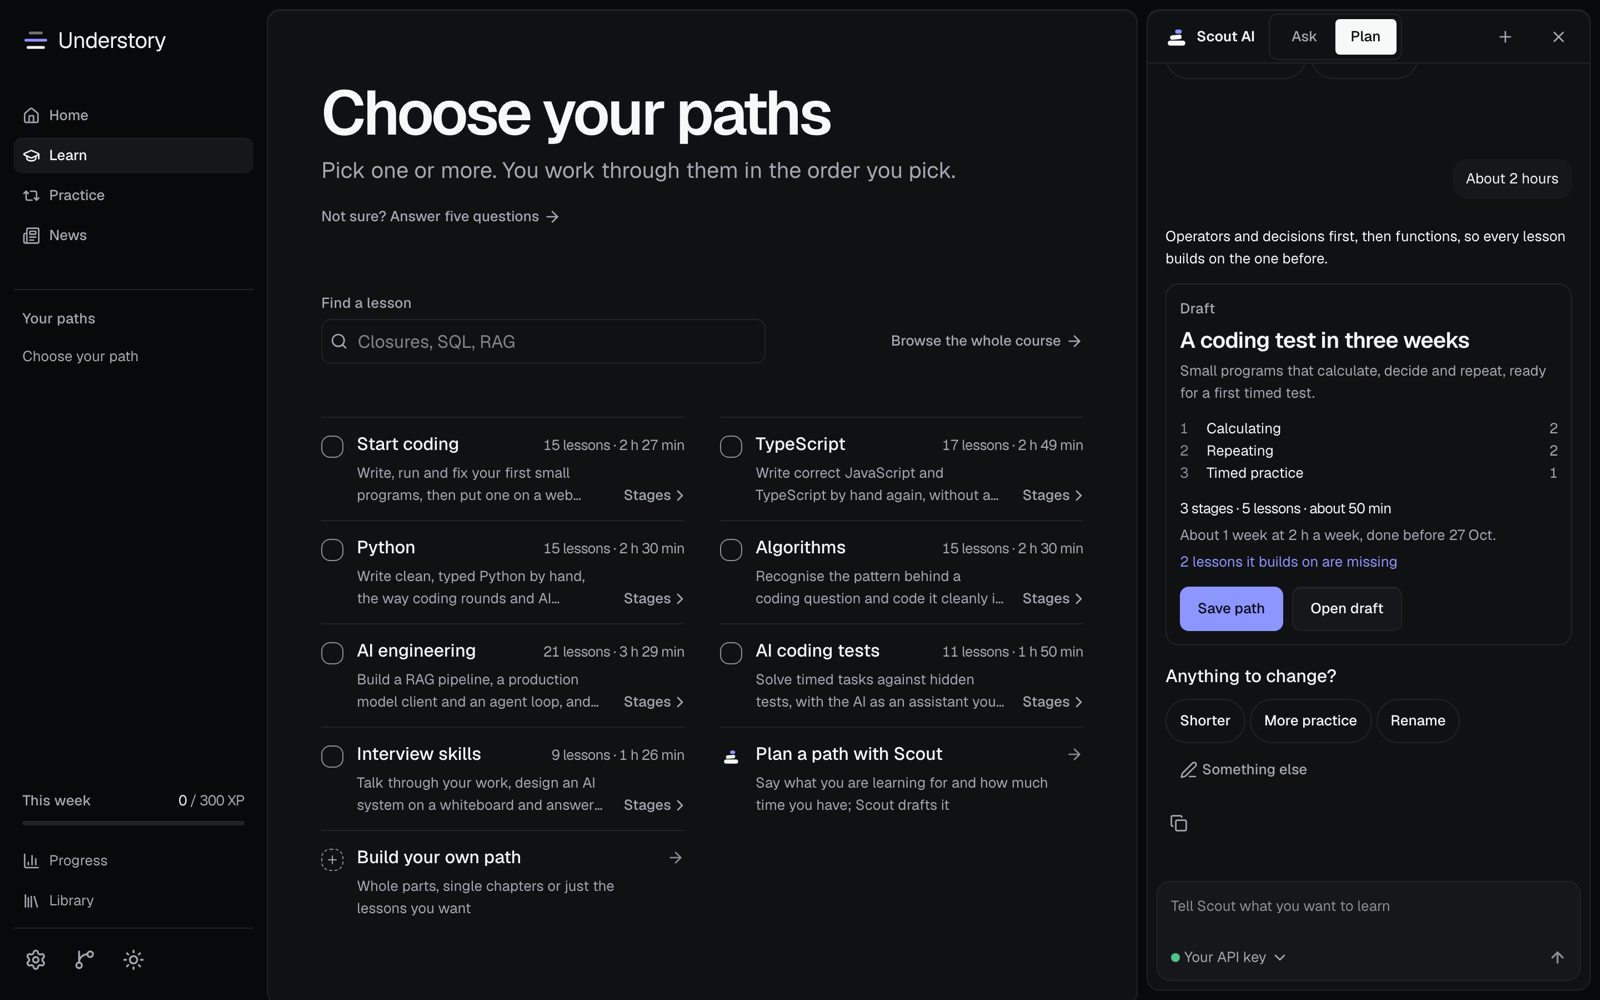
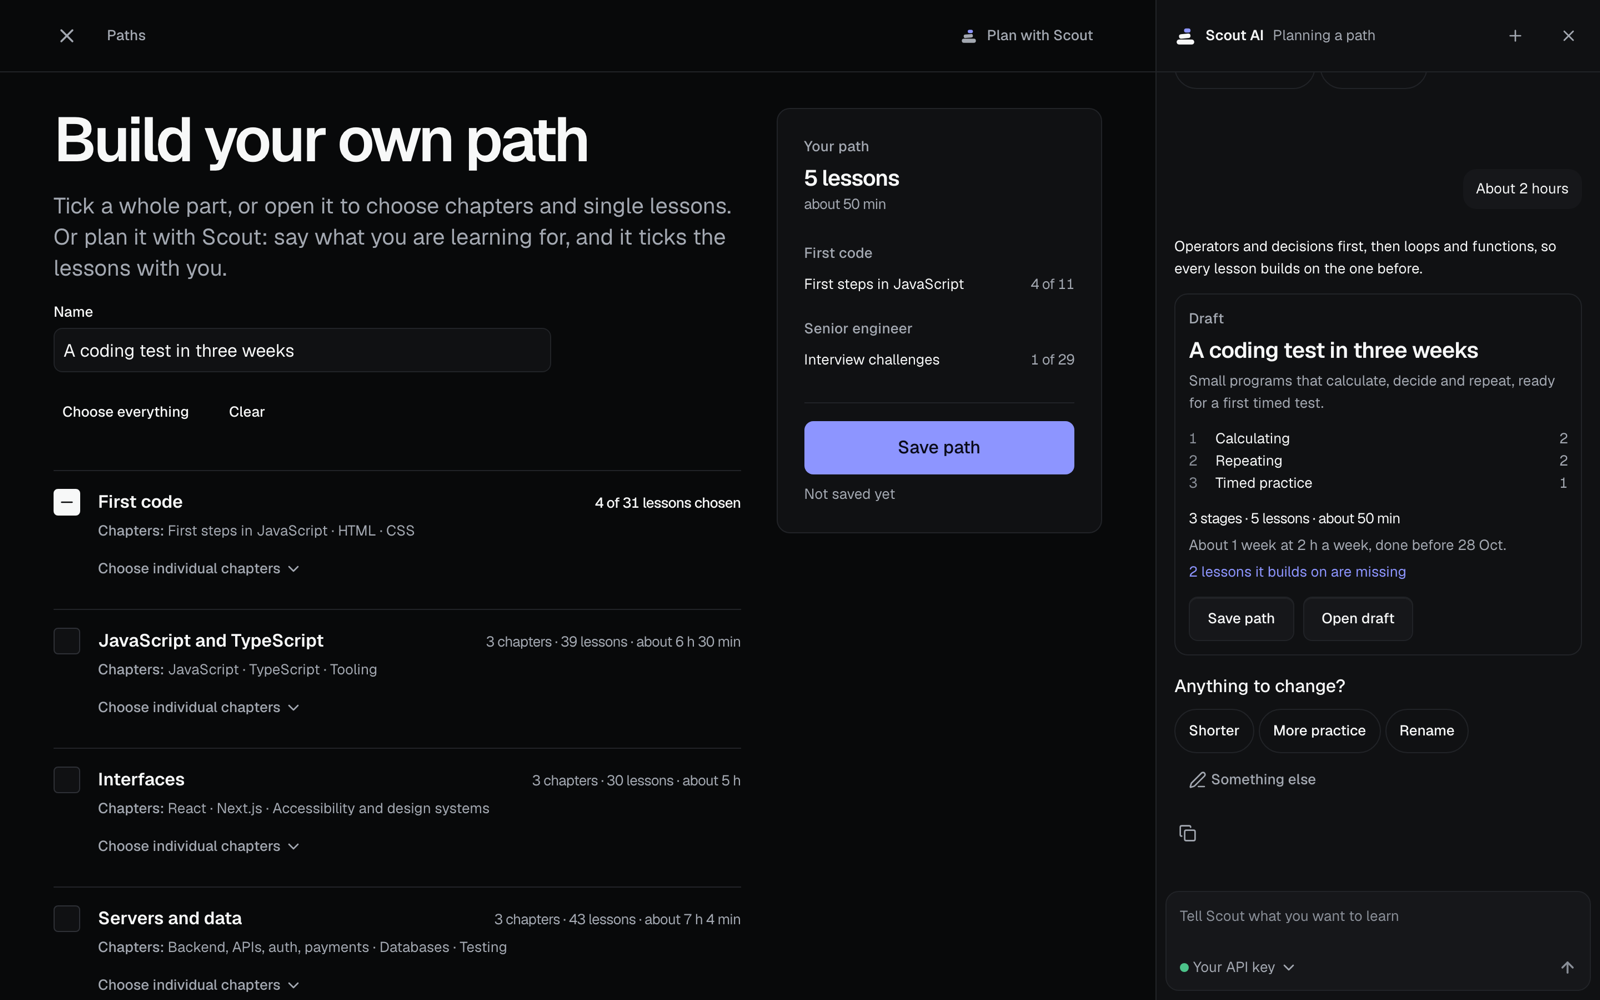
Document planning with Scout in the builder, its offer elsewhere, and full-screen Scout on phones

diff --git a/README.md b/README.md
@@ -108,14 +108,17 @@ which measure what you know without help.
 Away from a lesson it is a guide. It knows every page in the app and where you are on your
 paths, so you can ask where to start, what to practise or where yesterday's news went, and
 it answers with a link that takes you there. On a wide screen it docks beside the page
-instead of covering it, so the lesson and the answer stay side by side; on a phone it opens
-as a sheet. In the coding simulator the same assistant plays the one employers switch on,
+instead of covering it, so the lesson and the answer stay side by side; on a phone it fills
+the screen, so typing and scrolling stay in Scout and the page behind holds still. Ask it what
+to learn or which path to take, and it offers to plan one with you: a button takes you to the
+planner. In the coding simulator the same assistant plays the one employers switch on,
 and every prompt goes into your report.
 
 ### Plan a path with Scout
 
-Not sure which path fits, or none fits quite? Switch Scout to **Plan** (or choose "Plan a
-path with Scout" on Learn) and talk it through. Scout starts with what brings you here,
+Not sure which path fits, or none fits quite? Build your own, by hand or with Scout: in the
+builder ("Build your own path" on Learn), press **Plan with Scout** and talk it through, with
+Scout beside the builder. Scout starts with what brings you here,
 whatever it is: interviews coming up, a new career, your current work, a project of your own,
 school, a coding test, or plain curiosity. Then it asks only what changes the plan: what you
 already know, how much time you have and by when, which kinds of interviews or what you want
@@ -123,15 +126,17 @@ to build. Each question comes with answers to tap, and you can always type your 
 
 <picture>
   <source media="(prefers-color-scheme: dark)" srcset="docs/assets/readme/scout-planner-dark.png">
-  <img alt="Scout in plan mode beside Learn. The learner tapped two reasons and a weekly time, and Scout drafted a named path of two stages, with its size, how many weeks it takes at that pace, a missing lesson it builds on marked in the accent, and Save path." src="docs/assets/readme/scout-planner-light.png" width="100%">
+  <img alt="Scout planning a path beside the builder. The learner tapped two reasons and a weekly time, and Scout drafted a named path of two stages, with its size, how many weeks it takes at that pace, a missing lesson it builds on marked in the accent, and Save path." src="docs/assets/readme/scout-planner-light.png" width="100%">
 </picture>
 
 After a few questions Scout drafts the path: whole chapters where a chapter fits, single
 lessons where only part of one does, in stages with a reason each, sized to your weeks, and
 with a name of its own and two others to pick from. Open the draft to rename it, take out a
-lesson or a stage, or add the lessons it builds on that you have not done yet. Ask for
-changes ("shorter", "more practice", "add system design") and Scout redrafts from the version
-you are looking at. Save puts it on Learn as one of your paths, beside any others. Lesson ids,
+lesson or a stage, or add the lessons it builds on that you have not done yet. The builder
+ticks what Scout drafts, and your ticks go back to Scout, so you can switch between ticking by
+hand and asking at any point. Ask for changes ("shorter", "more practice", "add system
+design") and Scout redrafts from the version you are looking at. Save puts it on Learn as one
+of your paths, beside any others. Lesson ids,
 minutes and gaps are checked against the course, never taken from the model on trust.
 
 ### It runs on your own Claude
@@ -311,7 +316,7 @@ Every screen is designed from 390 px up and checked at 390, 768, 1024 and 1440 p
 and dark. Writing code on a phone gets its own editor: a suggestion row above the keyboard,
 snippet gaps you tap to fill, trackpad-style cursor keys and a full-screen mode. See
 [`MOBILE-EDITING.md`](docs/MOBILE-EDITING.md). On a phone the four places sit in a tab bar,
-and Scout opens as a sheet over the lesson.
+and Scout fills the screen over the lesson.
 
 <p align="center">
   <picture>

diff --git a/docs/ROADMAP.md b/docs/ROADMAP.md
@@ -11,7 +11,7 @@ holds state and priorities only, so keep it short and current.
 | Course         | 370 lessons in 30 chapters and seven parts, each part with a checkpoint, a capstone and worked capstone solutions (`content/capstones/`). Every lesson meets `docs/WRITING-GUIDE.md`.                                                                                    |
 | Learning paths | Seven paths in `content/tracks/`, each three or four stages. Each ends in a final exam at `/practise/exam/<path>` and a certificate at `/paths/<path>/certificate`.                                                                                                      |
 | Plans          | `/plan` builds a plan from a goal, weekly time and starting point: phases drawn from the paths, a step for today, an exam per phase. Learners also keep several named own paths, planned with Scout or built by hand.                                                    |
-| Scout AI       | The study assistant on every page and lesson (Command or Ctrl and J), on the learner's own Claude: MCP, API key or local Claude Code. Absent from exams, checkpoints and test-outs. Plan mode talks a path through and drafts it with a name, stages and pace.           |
+| Scout AI       | The study assistant on every page and lesson (Command or Ctrl and J), on the learner's own Claude: MCP, API key or local Claude Code. Absent from exams, checkpoints and test-outs. In the path builder it plans a path with the learner, with a name, stages and pace.  |
 | Lectures       | Every lesson has `notes.yaml`. `/lectures` reads any scope, from one lesson to the course, and prints it to PDF. Each scope has a narrated playlist and an audiobook download.                                                                                           |
 | Learning core  | Event log, reducer, mastery, FSRS scheduling, XP, weekly goal, ranks, calibration, practice sessions, placement at `/start`.                                                                                                                                             |
 | Lesson player  | 13 step types in use. Code challenges in JavaScript, TypeScript, Python and React, optionally with a twin in a second language. Playgrounds for HTML, CSS, JavaScript and React. SQL on PGlite.                                                                          |

diff --git a/docs/ONLINE-TEST.md b/docs/ONLINE-TEST.md
@@ -275,9 +275,14 @@ of the allowed connection, and New code ends it all.
 
 ### Planning a path
 
-Scout's panel has two modes, **Ask** (tutor in a lesson, guide elsewhere) and **Plan**. In
-plan mode (`mode: 'planner'`) Scout talks a learning path through with the learner, drafts it,
-and the learner saves it as one of their own paths. The code is in `src/core/planner/`
+Scout plans in one place: the path builder (`/learn/build`), where "Plan with Scout" opens it
+in plan mode (`mode: 'planner'`) beside the ticks. There is no switch: everywhere else Scout is
+the tutor or the guide, and plan mode ends when Scout closes or the learner leaves the builder.
+Ticking by hand and planning with Scout edit one draft: the builder ticks what Scout drafts,
+and a tick is a change Scout sees with the next question. Away from the builder, when asked
+what to learn, Scout ends its reply with a `scout-plan` block (`PLAN_OFFER`), drawn as a
+"Plan it with Scout" button that opens the builder on a new plan with the learner's words in
+the question box. The code is in `src/core/planner/`
 (rules, test first) and `src/features/tutor/planner/` (the panel); the rules Scout follows are
 `PLANNER_RULES` in `src/core/ports/assistant.ts`.
 
@@ -306,8 +311,8 @@ and the learner saves it as one of their own paths. The code is in `src/core/pla
   starts from their version.
 - **Saving** records `custom_path_set` v2 (`pathId`, `name`, `lessonIds`, `stages`, `summary`,
   `pace`, `origin: 'scout'`) and puts the path first on Learn. Saving again from the same
-  conversation updates the same path; "Plan again with Scout" on an own path's page opens a
-  fresh conversation seeded with it.
+  conversation updates the same path; "Plan again with Scout" on an own path's page opens the
+  builder on that path (`?plan=1`) with a fresh conversation seeded with it.
 
 ## 6a. Guided mode
 

diff --git a/docs/DESIGN.md b/docs/DESIGN.md
@@ -90,8 +90,10 @@ semantic tokens only, so a palette change is a change to that one file.
   lessons put the question across the top, then code left and answers right on one top
   edge; keyboard shortcuts and a command menu. Scout AI opens as a column beside the page,
   never over it: from lg on a focus screen, from xl in the shell (below that it floats as a
-  card), and it stays open across steps and pages until closed. Its header switches **Ask**
-  and **Plan**. In plan mode Scout's questions are chips (rounded, ink when picked, never the
+  card), and it stays open across steps and pages until closed. On a phone it fills the
+  screen, follows the visual viewport so its question box sits just above the keyboard, and
+  holds the page behind it still. There is no mode switch: Scout plans only in the path
+  builder, opened by its "Plan with Scout". In plan mode Scout's questions are chips (rounded, ink when picked, never the
   accent), a draft is one bordered card with the name, the stages, the size line in mono and
   Save path as the primary action, and Open draft replaces the conversation with the draft
   view inside the same column, settling in with `scout-view`. A lesson the path builds on but

diff --git a/CONTRIBUTING.md b/CONTRIBUTING.md
@@ -93,7 +93,7 @@ Read [`docs/DESIGN.md`](docs/DESIGN.md) and [`docs/MOTION.md`](docs/MOTION.md).
   on a visitor's behalf, and never store a learner's key on the server.
 - Scout stays out of anything that measures the learner: timed tests, checkpoints, test-outs
   and placement.
-- In plan mode Scout's structure travels as `scout-ask` and `scout-path` blocks
+- Scout's structure travels as `scout-ask`, `scout-path` and `scout-plan` blocks
   (`src/core/planner/protocol.ts`). Anything shown about a draft (lessons, minutes, weeks,
   gaps) is counted from the course in `src/core/planner/`, never read from the reply. A new
   block kind needs a schema there, a renderer in `src/features/tutor/planner/` and a line in
